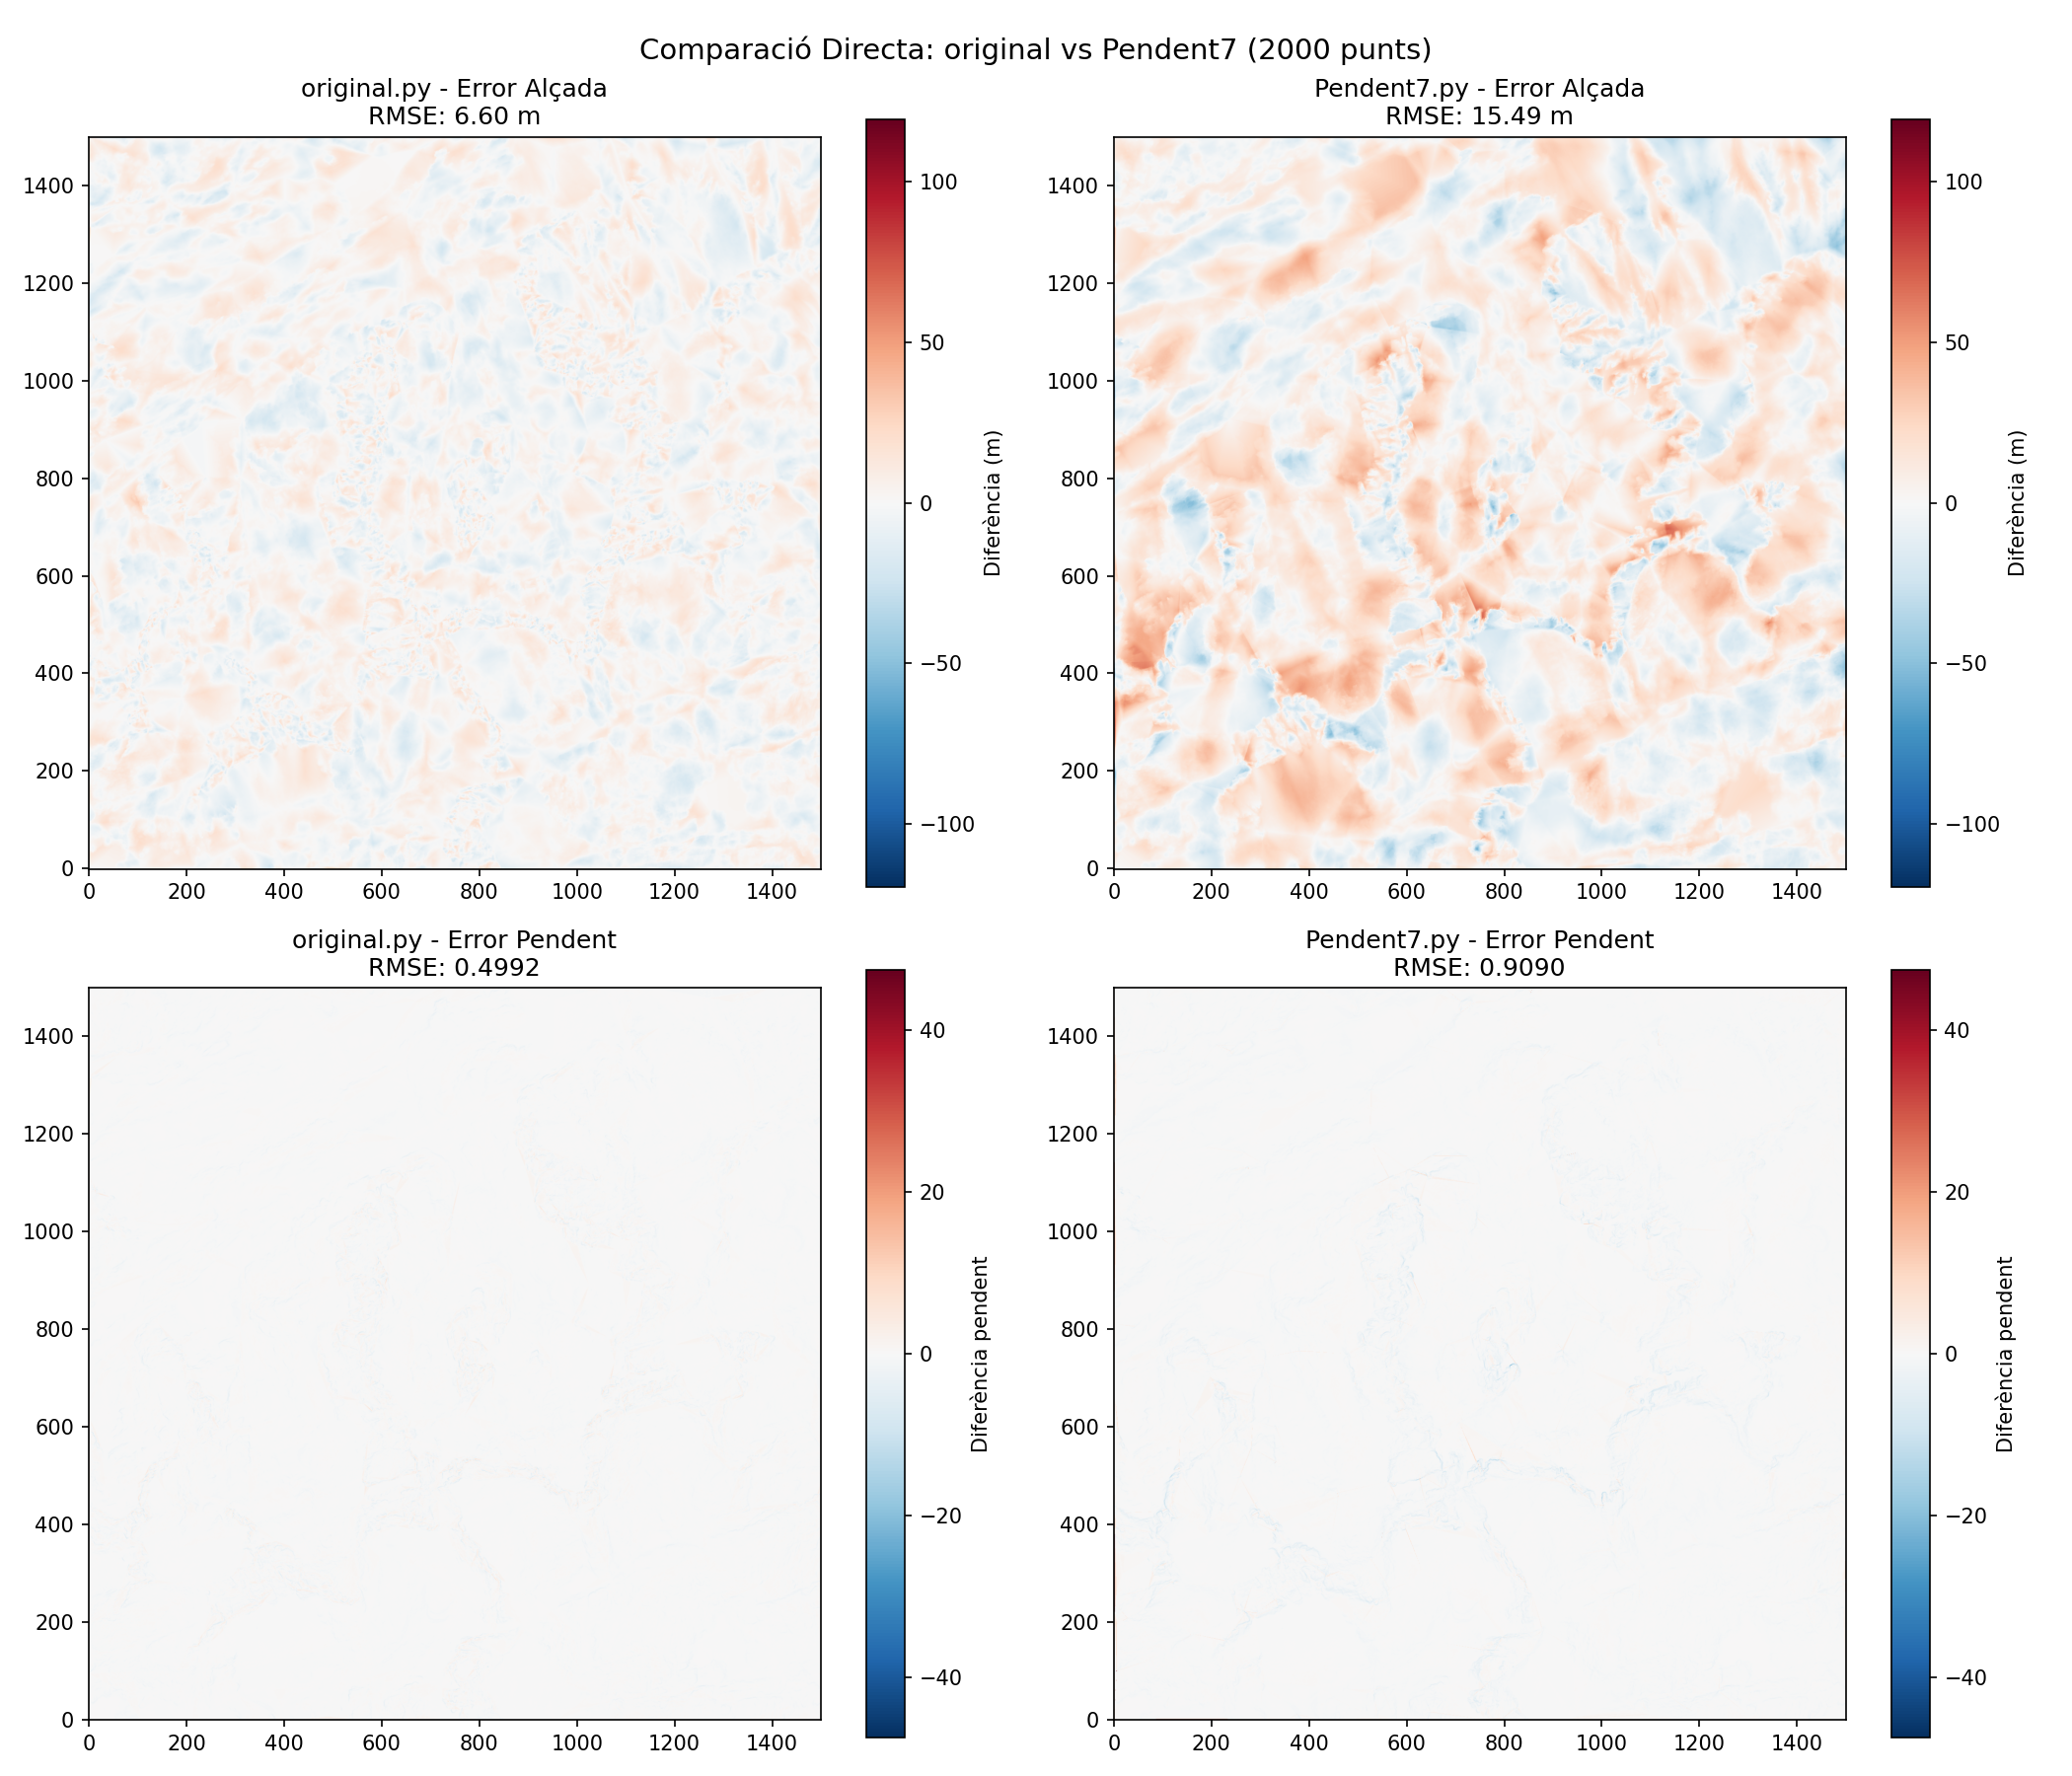
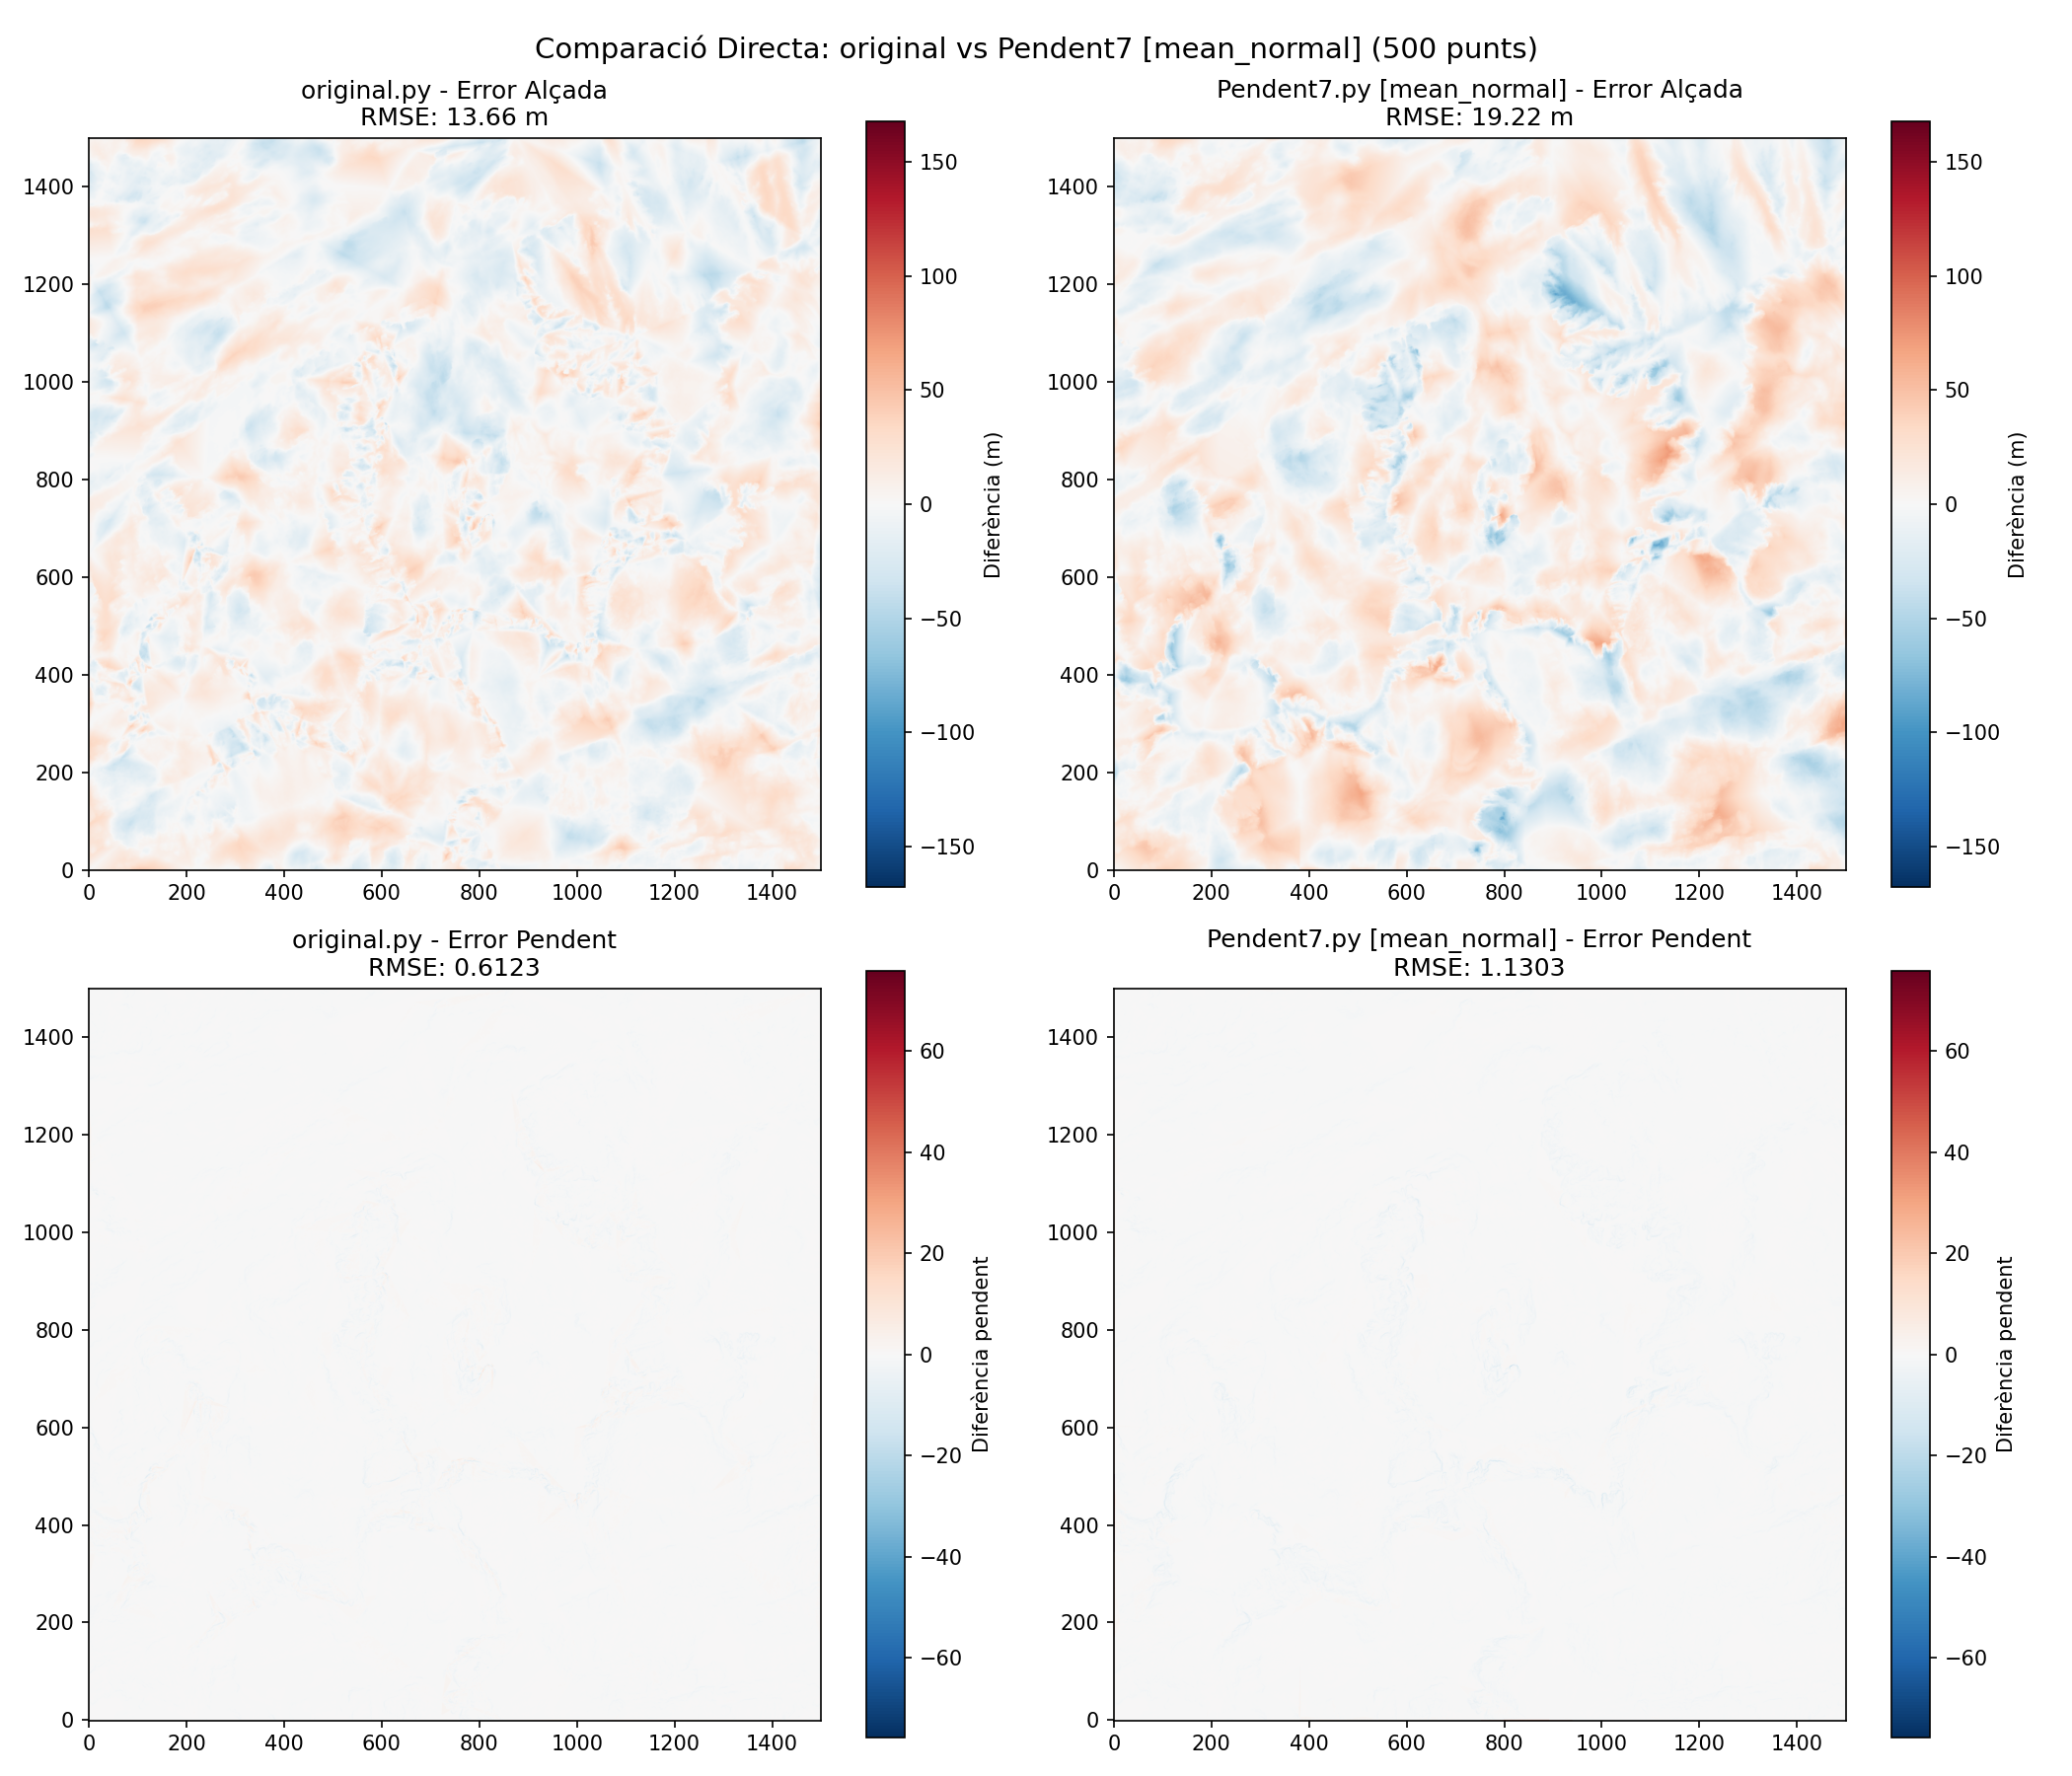
cuurro

diff --git a/pendent7.py b/pendent7.py
@@ -327,6 +327,96 @@ class GridToTinIncremental:
     # Mètode principal: fit
     # ------------------------------------------------------------------
 
+    def fit_with_error_snapshots(self, npy_file_path,
+                                 snapshot_dir='snapshots_error_pendent',
+                                 snapshot_interval=5):
+        """Igual que fit() però guarda snapshots de l'error angular a cada interval."""
+        if not self._load_data(npy_file_path):
+            return None, None
+
+        os.makedirs(snapshot_dir, exist_ok=True)
+        print(f"Les imatges d'error es guardaran a: {snapshot_dir}/  [mode={self.mode}]")
+
+        candidate_indices = self._initialize_tin()
+
+        iteration = 0
+        new_xy = None
+
+        while len(self.tin.points) < self.target_point_count and len(candidate_indices) > 0:
+            iteration += 1
+
+            worst_local, worst_global = self._select_next(candidate_indices)
+
+            if iteration % 10 == 0:
+                angular = self._calculate_angular_error(candidate_indices)
+                max_err = angular[worst_local]
+                print(f"[{self.mode}] Iter {iteration}: error_angular_màx = {max_err:.2f}°, "
+                      f"punts = {len(self.tin.points)}")
+
+            new_xy, new_z = self._get_coords_from_index(worst_global)
+
+            if iteration % snapshot_interval == 0:
+                self._save_angular_error_snapshot(
+                    snapshot_dir, iteration, candidate_indices, worst_local, new_xy)
+
+            self.tin.add_points([new_xy])
+            self.tin_z_values.append(new_z)
+            candidate_indices.pop(worst_local)
+
+        # Snapshot final
+        if new_xy is not None:
+            self._save_angular_error_snapshot(
+                snapshot_dir, iteration, candidate_indices, -1, new_xy)
+
+        print(f"\n[DEBUG] Punts XY: {len(self.tin.points)} | Valors Z: {len(self.tin_z_values)}")
+        if len(self.tin.points) != len(self.tin_z_values):
+            print("  ⚠️ ALERTA: Desincronització detectada!")
+
+        print(f"✓ Snapshots d'error guardats a {snapshot_dir}/")
+        return self.tin.points, self.tin.simplices
+
+    def _save_angular_error_snapshot(self, snapshot_dir, iteration,
+                                     candidate_indices, worst_local, last_added_xy):
+        if len(self.tin.simplices) == 0 or len(candidate_indices) == 0:
+            return
+
+        candidate_arr = np.asarray(candidate_indices)
+        angular_errors = self._calculate_angular_error(candidate_arr)
+
+        rows_c, cols_c = np.divmod(candidate_arr, self.cols)
+        x_c = cols_c * self.step * self.pixel_size
+        y_c = rows_c * self.step * self.pixel_size
+
+        fig, ax = plt.subplots(figsize=(12, 10))
+
+        sc = ax.scatter(x_c, y_c, c=angular_errors, cmap='hot_r',
+                        vmin=0, vmax=90, s=2, alpha=0.8)
+        ax.triplot(self.tin.points[:, 0], self.tin.points[:, 1], self.tin.simplices,
+               color='cyan', linestyle='-', linewidth=0.5, alpha=0.6)
+        ax.scatter(self.tin.points[:, 0], self.tin.points[:, 1],
+                   c='white', s=15, edgecolors='black', linewidths=0.5, zorder=5, alpha=0.8)
+        ax.scatter(last_added_xy[0], last_added_xy[1],
+                   c='lime', s=100, edgecolors='white', linewidths=2, zorder=10, marker='*')
+
+        if 0 <= worst_local < len(candidate_indices):
+            nr, nc = divmod(candidate_indices[worst_local], self.cols)
+            ax.scatter(nc * self.step * self.pixel_size, nr * self.step * self.pixel_size,
+                       c='red', s=100, edgecolors='yellow', linewidths=2, zorder=10, marker='X')
+
+        plt.colorbar(sc, ax=ax, label='Error angular (graus)')
+        ax.set_title(
+            f"pendent7.py [{self.mode}] - ERROR ANGULAR | Iter {iteration} | Punts: {len(self.tin.points)}",
+            fontsize=14, fontweight='bold')
+        ax.set_xlabel('X (m)')
+        ax.set_ylabel('Y (m)')
+        ax.set_xlim(0, (self.cols - 1) * self.step * self.pixel_size)
+        ax.set_ylim(0, (self.rows - 1) * self.step * self.pixel_size)
+        ax.set_aspect('equal', adjustable='box')
+
+        filename = os.path.join(snapshot_dir, f'frame_{iteration:04d}.png')
+        plt.savefig(filename, dpi=100, bbox_inches='tight')
+        plt.close(fig)
+
     def fit(self, npy_file_path, snapshot_dir=None, snapshot_interval=100):
         if not self._load_data(npy_file_path):
             return None, None

diff --git a/comparacio_bona.py b/comparacio_bona.py
@@ -8,7 +8,7 @@ import time
 FILENAME = 'bassiero.npy'
 STEP = 1
 PIXEL_SIZE = 2.0
-TARGET_POINTS = 2000
+TARGET_POINTS = 500
 
 def calculate_stats_for_model(model_tin, h_grid, rows, cols, step, pixel_size):
     spacing = step * pixel_size

diff --git a/comparacio_colormap.py b/comparacio_colormap.py
@@ -9,7 +9,7 @@ import time
 FILENAME = 'bassiero.npy'
 STEP = 1
 PIXEL_SIZE = 2.0
-TARGET_POINTS = 2000
+TARGET_POINTS = 500
 
 #passa de nou la malla a pixels, per a que les coordenades del TIN estiguin en metres i no en índexs de la matriu
 def interpolate_tin_heights(tin, z_values, rows, cols, step, pixel_size):

diff --git a/video_error_comparison.py b/video_error_comparison.py
@@ -96,7 +96,7 @@ def create_side_by_side_video(dir_original, dir_pendent, output_file='video_erro
 
 if __name__ == '__main__':
     NPY_FILE = 'bassiero.npy'
-    TARGET_POINTS = 2000
+    TARGET_POINTS = 100
     
     # Generar snapshots per ambdós algoritmes
     dir_original = generate_error_video_original(NPY_FILE, TARGET_POINTS)